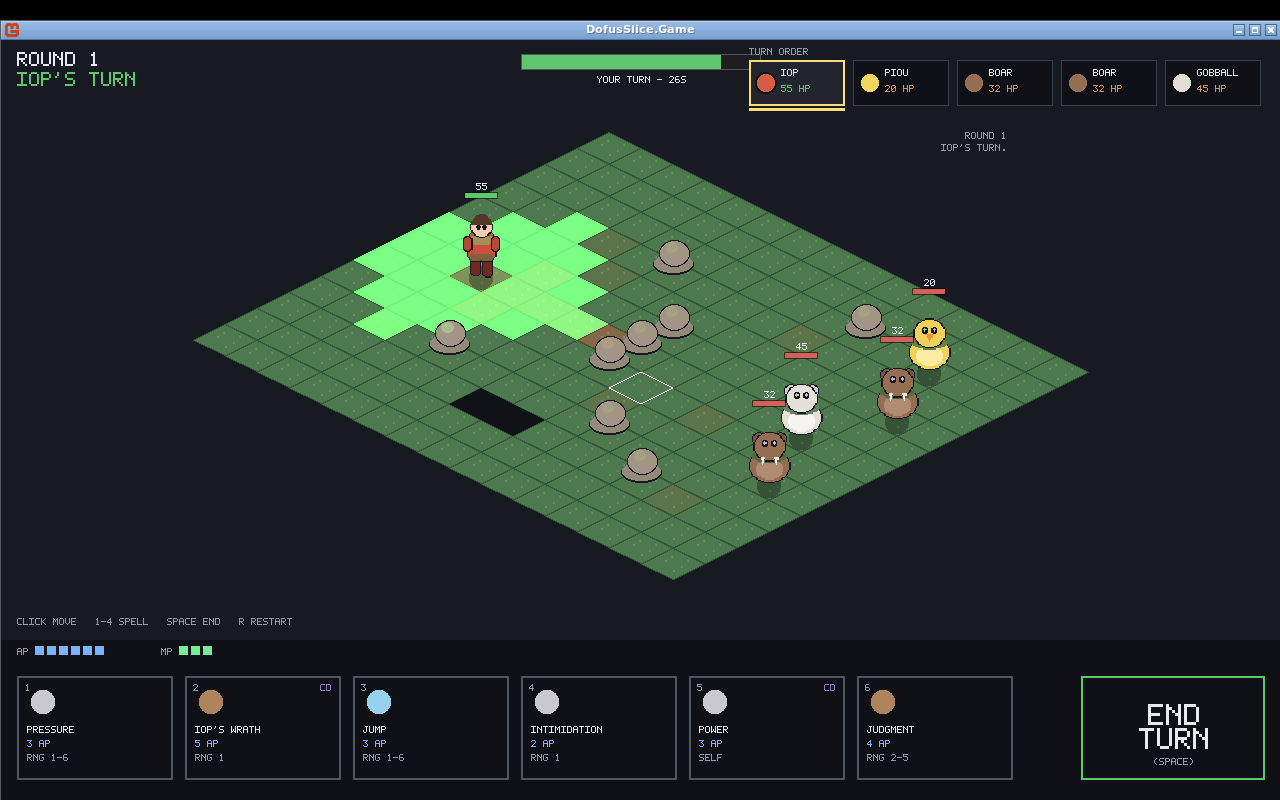
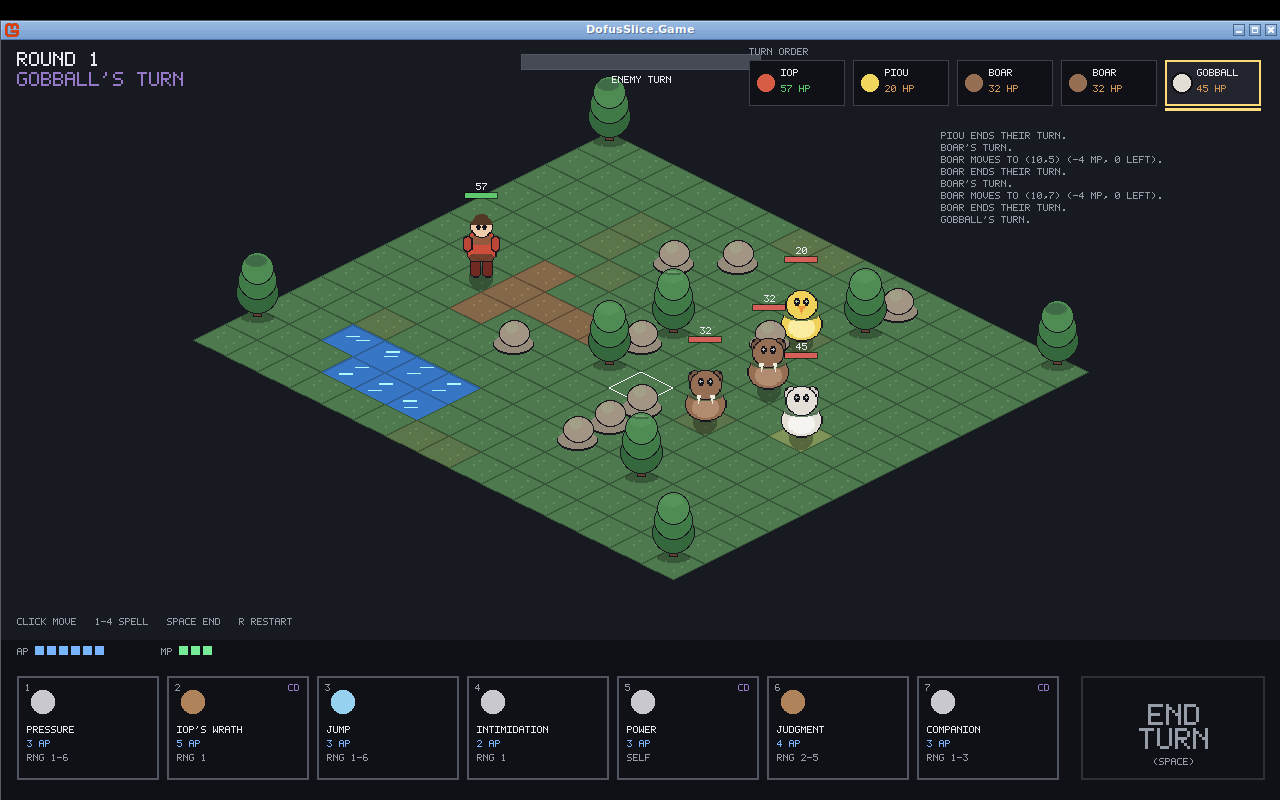
Add tree obstacles and a cooler tactical map to the combat slice
Introduce a second obstacle type — Tree — alongside Rock. Both block
movement and line of sight, giving maps two visually distinct props for
cover and chokepoints. Trees render as an original layered-foliage iso
sprite (with a procedural vector fallback), depth-sorted with everything
else so they occlude correctly.

- TileKind: add Tree (walkable=false, blocksLoS=true).
- MapLoader: 'T' -> Tree in the JSON ASCII grid.
- TmxLoader: map tileset/tile names containing tree/bush/forest -> Tree.
- Renderer: DrawObstacle picks tree vs rock art from the cell's tile kind.
- Sprite gen: add tree_tile() and commit the generated tile_tree.png.

Redesign the Incarnam map ("Incarnam Pond") with tree groves, rock
clusters, a corner water pond and a dirt path for terrain variety, while
keeping it open with spread-out mobs so the fight stays winnable — the
headless auto-player holds a ~70% win rate (14/20 seeds), matching the
previous layout. Combat self-tests remain 15/15.

Claude-Session: https://claude.ai/code/session_01SDSyNYemg1wWfQW7JzGyUq

diff --git a/DofusSlice/DofusSlice.Game/SliceGame.cs b/DofusSlice/DofusSlice.Game/SliceGame.cs
@@ -529,7 +529,7 @@ public sealed class SliceGame : Microsoft.Xna.Framework.Game
             if (IsObstacle(_engine.Field, c))
             {
                 var cell = c;
-                items.Add((_proj.CellCenter(cell).Y, 0, () => DrawRock(cell)));
+                items.Add((_proj.CellCenter(cell).Y, 0, () => DrawObstacle(cell)));
             }
 
         foreach (var f in _engine.Fighters.Where(x => x.IsAlive))
@@ -542,9 +542,16 @@ public sealed class SliceGame : Microsoft.Xna.Framework.Game
             it.draw();
     }
 
-    private void DrawRock(CellCoord c)
+    private void DrawObstacle(CellCoord c)
     {
         var center = _proj.CellCenter(c);
+        if (_engine.Field.TileAt(c) == TileKind.Tree)
+        {
+            var tree = _sprites.Get("tile_tree");
+            if (tree != null) { DrawSpriteFeet(tree, center, Color.White, TileH + 40); return; }
+            DrawProceduralTree(center);
+            return;
+        }
         var rock = _sprites.Get("tile_rock");
         if (rock != null)
         {
@@ -555,6 +562,17 @@ public sealed class SliceGame : Microsoft.Xna.Framework.Game
         _prim.DiscAt(_sb, center + new Vector2(0, -5), 12, Palette.Obstacle);
         _prim.DiscAt(_sb, center + new Vector2(0, -9), 9, Palette.ObstacleTop);
         _prim.DiscAt(_sb, center + new Vector2(-4, -12), 4, new Color(150, 136, 120));
+    }
+
+    // Fallback vector tree when no tile_tree sprite is present: shadow, trunk, three foliage tiers.
+    private void DrawProceduralTree(Vector2 center)
+    {
+        _prim.DiscAt(_sb, center + new Vector2(0, 2), 11, Palette.Shadow);
+        _prim.FillRect(_sb, new Rectangle((int)center.X - 3, (int)center.Y - 22, 6, 24), new Color(96, 66, 42));
+        _prim.DiscAt(_sb, center + new Vector2(0, -22), 12, new Color(52, 104, 60));
+        _prim.DiscAt(_sb, center + new Vector2(0, -32), 11, new Color(64, 122, 70));
+        _prim.DiscAt(_sb, center + new Vector2(0, -42), 9, new Color(78, 140, 84));
+        _prim.DiscAt(_sb, center + new Vector2(-3, -44), 4, new Color(96, 160, 100));
     }
 
     private const float AnimFps = 10f;

diff --git a/DofusSlice/tools/gen_default_sprites.py b/DofusSlice/tools/gen_default_sprites.py
@@ -119,6 +119,23 @@ def iso_tile(base, edge):
     return img
 
 
+def tree_tile():
+    img = Image.new("RGBA", (64, 72), (0, 0, 0, 0))
+    d = ImageDraw.Draw(img)
+    cx = 32
+    # ground shadow
+    d.ellipse([16, 60, 48, 70], fill=(0, 0, 0, 70))
+    # trunk
+    d.rectangle([cx - 4, 44, cx + 4, 64], fill=OUTLINE + (255,))
+    d.rectangle([cx - 3, 44, cx + 3, 63], fill=(96, 66, 42, 255))
+    # layered foliage (three tiers, darker at the base)
+    for (yy, r, col) in [(40, 20, (52, 104, 60)), (28, 18, (64, 122, 70)), (16, 15, (78, 140, 84))]:
+        d.ellipse([cx - r - 1, yy - r - 1, cx + r + 1, yy + r + 1], fill=OUTLINE + (255,))
+        d.ellipse([cx - r, yy - r, cx + r, yy + r], fill=col + (255,))
+        d.ellipse([cx - r + 3, yy - r + 2, cx + r - 6, yy - 2], fill=shade(col, 1.2) + (150,))
+    return img
+
+
 def rock_tile():
     img = Image.new("RGBA", (64, 56), (0, 0, 0, 0))
     d = ImageDraw.Draw(img)
@@ -159,4 +176,5 @@ iso_tile((78, 120, 78), (54, 86, 56)).save(os.path.join(OUT, "tile_grass.png"))
 iso_tile((92, 116, 74), (62, 84, 52)).save(os.path.join(OUT, "tile_grass2.png"))
 iso_tile((132, 104, 74), (96, 74, 52)).save(os.path.join(OUT, "tile_dirt.png"))
 rock_tile().save(os.path.join(OUT, "tile_rock.png"))
+tree_tile().save(os.path.join(OUT, "tile_tree.png"))
 print("tiles written; done ->", OUT)

diff --git a/DofusSlice/DofusSlice.Core/Content/Encounter.cs b/DofusSlice/DofusSlice.Core/Content/Encounter.cs
@@ -11,22 +11,22 @@ public static class Encounter
     /// <summary>Default map — an original clearing layout (not copied from any real Dofus map).</summary>
     public const string DefaultMapJson = """
     {
-      "name": "Incarnam Clearing",
+      "name": "Incarnam Pond",
       "legend": { "1": "boar", "2": "gobball", "3": "piou" },
       "rows": [
-        "...............",
-        "...............",
-        "..........#.3..",
+        "T.....,,......T",
+        "..........#....",
+        "...,..#...T.3..",
         "...,.#...,.....",
-        "....,........1.",
-        "...d...#.......",
+        "....,....#...1.",
+        "...d...T.......",
         "..Pdddd#....2..",
-        "...d...#..,....",
-        "........,....1.",
-        "..,.#....#.....",
-        "..www.oo...#,..",
-        "...w...........",
-        "..............."
+        "...d...T..,....",
+        ".....#...#...1.",
+        "..,......#.....",
+        "..wwww...#.T...",
+        "T..www.........",
+        "......,,......T"
       ]
     }
     """;

diff --git a/DofusSlice/DofusSlice.Core/Grid/TileKind.cs b/DofusSlice/DofusSlice.Core/Grid/TileKind.cs
@@ -11,12 +11,13 @@ public enum TileKind
     Dirt,    // walkable
     Path,    // walkable
     Rock,    // obstacle: blocks movement and line of sight
+    Tree,    // obstacle: blocks movement and line of sight (taller prop)
     Void,    // hole: not walkable, but you can see across it
     Water,   // not walkable, but you can see (and shoot) across it
 }
 
 public static class TileKindInfo
 {
-    public static bool IsWalkable(TileKind k) => k is not (TileKind.Rock or TileKind.Void or TileKind.Water);
-    public static bool BlocksLineOfSight(TileKind k) => k is TileKind.Rock;
+    public static bool IsWalkable(TileKind k) => k is not (TileKind.Rock or TileKind.Tree or TileKind.Void or TileKind.Water);
+    public static bool BlocksLineOfSight(TileKind k) => k is TileKind.Rock or TileKind.Tree;
 }

diff --git a/DofusSlice/DofusSlice.Core/Content/TmxLoader.cs b/DofusSlice/DofusSlice.Core/Content/TmxLoader.cs
@@ -120,6 +120,7 @@ public static class TmxLoader
         string s = raw.ToLowerInvariant();
         if (s.Contains("water")) return TileKind.Water;
         if (s.Contains("void") || s.Contains("hole") || s.Contains("pit")) return TileKind.Void;
+        if (s.Contains("tree") || s.Contains("bush") || s.Contains("forest")) return TileKind.Tree;
         if (s.Contains("rock") || s.Contains("wall") || s.Contains("stone")) return TileKind.Rock;
         if (s.Contains("dirt")) return TileKind.Dirt;
         if (s.Contains("path") || s.Contains("road")) return TileKind.Path;

diff --git a/DofusSlice/DofusSlice.Core/Content/MapLoader.cs b/DofusSlice/DofusSlice.Core/Content/MapLoader.cs
@@ -57,6 +57,7 @@ public static class MapLoader
                     case 'd': kind = TileKind.Dirt; break;
                     case 'p': kind = TileKind.Path; break;
                     case '#': kind = TileKind.Rock; break;
+                    case 'T': kind = TileKind.Tree; break;
                     case 'o': kind = TileKind.Void; break;
                     case 'w': kind = TileKind.Water; break;
                     case 's': // a placement cell (stands on grass)

diff --git a/DofusSlice/README.md b/DofusSlice/README.md
@@ -28,11 +28,14 @@ JSON, then the embedded default):
   a `kind` property, else the tileset's name (contains "water" → water, "rock"/"wall" → rock, …).
   Spawns are point objects whose Class/Type/Name is `player` or a mob kind (`boar`/`gobball`/`piou`).
 - **JSON ASCII grid** (`maps/incarnam.json`) — a compact `rows` array; chars: `.`grass `,`grass2
-  `d`dirt `#`rock `o`void `w`water `P`player `s`start-cell, digits = mob spawns via a legend.
+  `d`dirt `p`path `#`rock `T`tree `o`void `w`water `P`player `s`start-cell, digits = mob spawns
+  via a legend.
 
-Tile kinds `water` and `void` are non-walkable but you can see (and shoot) across them; water is
-drawn in the game's own isometric style. Third-party tileset art is **not** bundled — point the
-renderer at your own licensed tiles locally via the `assets/` folder.
+Obstacles come in two flavours that both block movement **and** line of sight: `#` rock (a low
+mound) and `T` tree (a taller prop) — use them for tactical cover and chokepoints. Tile kinds
+`water` and `void` are non-walkable but you can see (and shoot) across them; water is drawn in the
+game's own isometric style. Third-party tileset art is **not** bundled — point the renderer at
+your own licensed tiles locally via the `assets/` folder.
 
 ## Using your own art (sprite pipeline)
 
